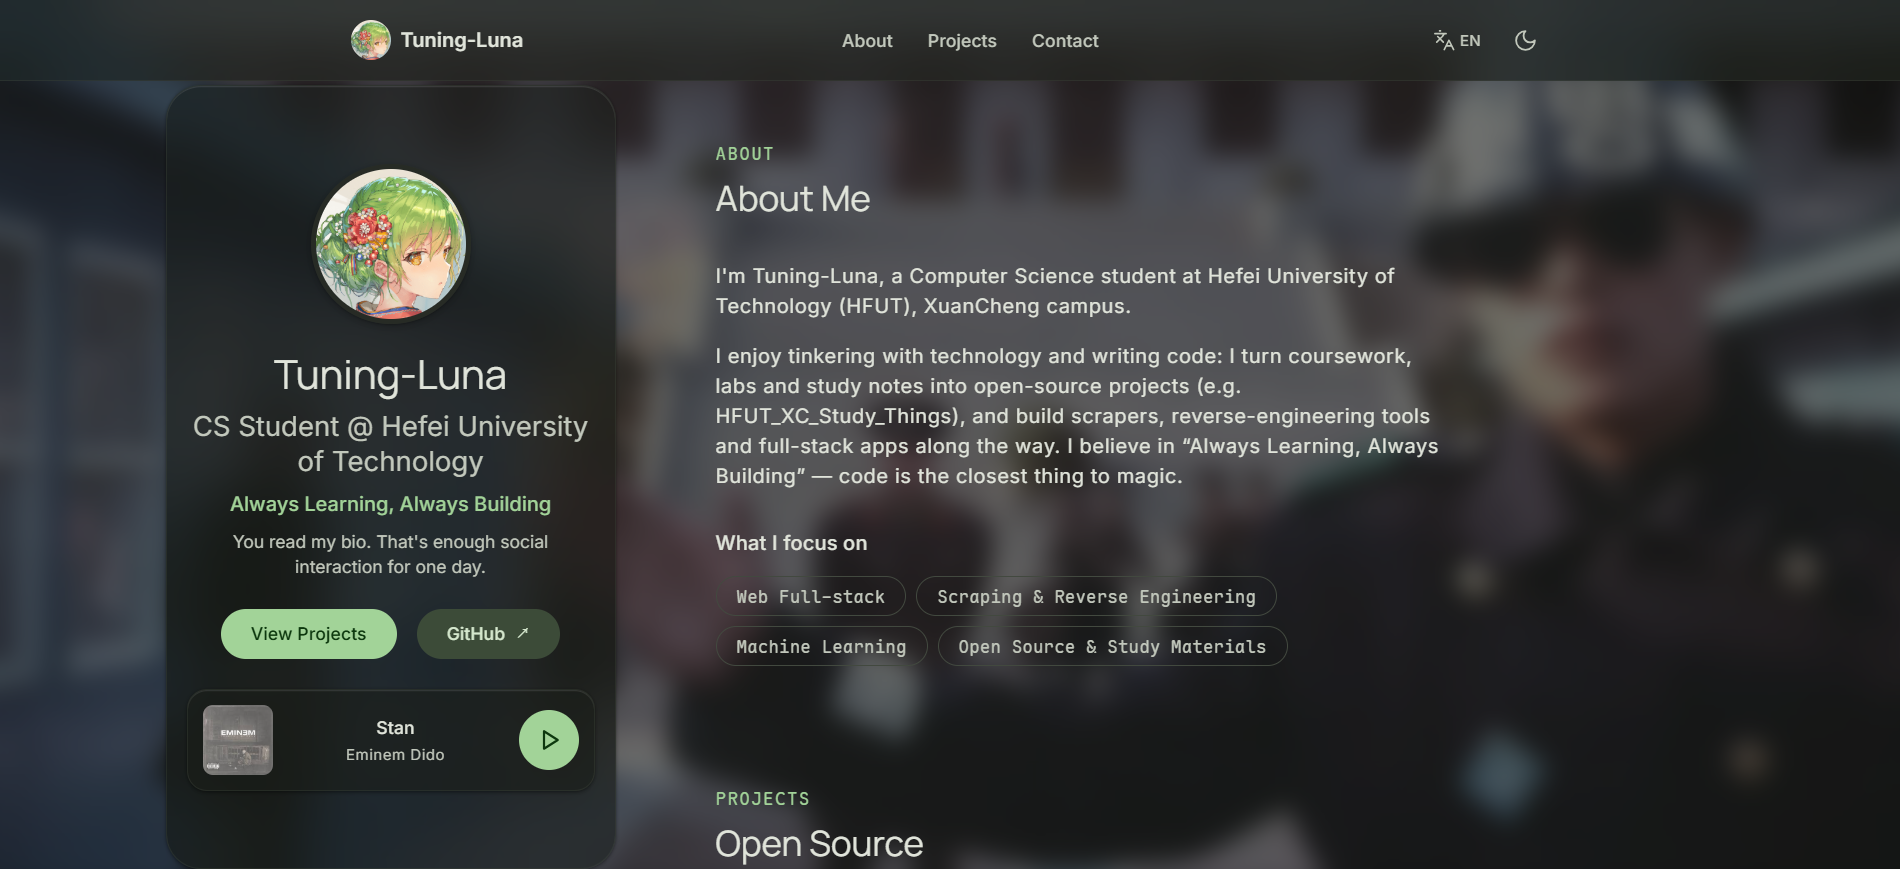
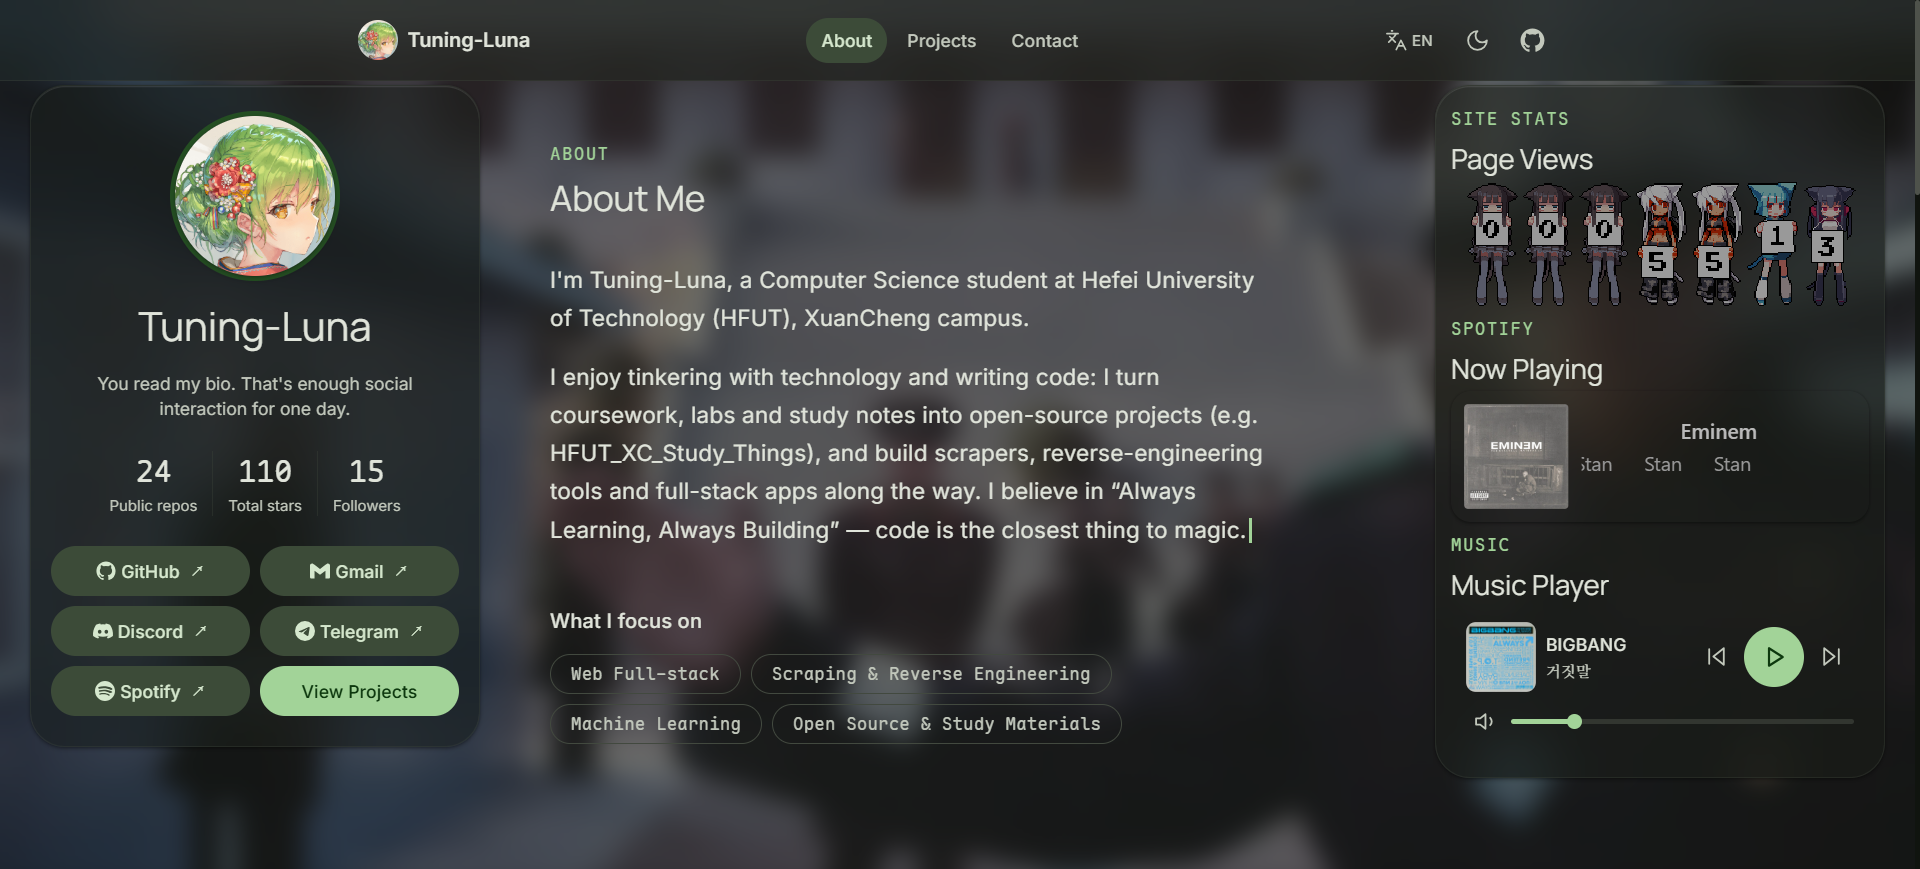
scroll to section with nav link high light

diff --git a/src/hooks/useActiveSection.ts b/src/hooks/useActiveSection.ts
@@ -1,0 +1,55 @@
+import { useEffect, useState } from 'react'
+
+/** Offset from the viewport top at which a section counts as "current" —
+  matches the global `scroll-padding-top` (4xl + 2xl) so a clicked nav link
+  lights up exactly when its anchor settles below the sticky app bar. */
+const ACTIVATION_OFFSET = 96
+
+/**
+ * Tracks which page section the reader is currently in, for nav highlighting.
+ *
+ * A section becomes active once its top edge crosses the activation offset;
+  the last section is pinned once the page is scrolled to the bottom so short
+  final sections still highlight. Recomputed on scroll/resize via rAF, and the
+  `ids` array must be stable (module-level) to avoid re-subscribing listeners.
+ */
+export function useActiveSection(ids: readonly string[]): string | null {
+  const [active, setActive] = useState<string | null>(null)
+
+  useEffect(() => {
+    if (ids.length === 0) return
+    let raf = 0
+
+    const measure = () => {
+      raf = 0
+      let current: string | null = null
+      // `ids` is in page order, so the last match wins.
+      for (const id of ids) {
+        const el = document.getElementById(id)
+        if (el && el.getBoundingClientRect().top <= ACTIVATION_OFFSET) current = id
+      }
+      if (
+        current !== ids[ids.length - 1] &&
+        window.innerHeight + window.scrollY >= document.documentElement.scrollHeight - 2
+      ) {
+        current = ids[ids.length - 1]
+      }
+      setActive((prev) => (prev === current ? prev : current))
+    }
+
+    const schedule = () => {
+      if (raf === 0) raf = requestAnimationFrame(measure)
+    }
+
+    measure()
+    window.addEventListener('scroll', schedule, { passive: true })
+    window.addEventListener('resize', schedule)
+    return () => {
+      window.removeEventListener('scroll', schedule)
+      window.removeEventListener('resize', schedule)
+      if (raf !== 0) cancelAnimationFrame(raf)
+    }
+  }, [ids])
+
+  return active
+}

diff --git a/src/components/AppBar.tsx b/src/components/AppBar.tsx
@@ -1,5 +1,6 @@
 import { useTranslation } from 'react-i18next'
 import { profile, siteRepoUrl } from '../data/profile'
+import { useActiveSection } from '../hooks/useActiveSection'
 import { Icon } from './Icon'
 import { LanguageToggle } from './LanguageToggle'
 import { SmartImage } from './SmartImage'
@@ -16,8 +17,12 @@ const NAV_ITEMS = [
   // { id: 'activity', key: 'nav.activity' },
 ] as const
 
+// Stable module-level array — useActiveSection re-subscribes when it changes.
+const NAV_IDS = NAV_ITEMS.map((item) => item.id)
+
 export function AppBar() {
   const { t } = useTranslation()
+  const activeSection = useActiveSection(NAV_IDS)
   return (
     <header className="appbar">
       <div className="container appbar__inner">
@@ -34,11 +39,19 @@ export function AppBar() {
           <span className="appbar__name">{profile.name}</span>
         </a>
         <nav className="appbar__nav" aria-label="Primary">
-          {NAV_ITEMS.map((item) => (
-            <a key={item.id} className="appbar__link" href={`#${item.id}`}>
-              {t(item.key)}
-            </a>
-          ))}
+          {NAV_ITEMS.map((item) => {
+            const active = item.id === activeSection
+            return (
+              <a
+                key={item.id}
+                className={active ? 'appbar__link appbar__link--active' : 'appbar__link'}
+                href={`#${item.id}`}
+                aria-current={active ? 'true' : undefined}
+              >
+                {t(item.key)}
+              </a>
+            )
+          })}
         </nav>
         <div className="appbar__actions">
           <LanguageToggle />

diff --git a/src/components/AppBar.css b/src/components/AppBar.css
@@ -76,6 +76,23 @@
   text-decoration: none;
 }
 
+/* Active state follows the M3 navigation pattern: a full-shape indicator in
+   the secondary container role with its on-color label. */
+.appbar__link--active {
+  background-color: var(--md-sys-color-secondary-container);
+  color: var(--md-sys-color-on-secondary-container);
+}
+
+/* Hovering the active link keeps the indicator and adds M3's 8% state layer. */
+.appbar__link--active:hover {
+  background-color: color-mix(
+    in srgb,
+    var(--md-sys-color-on-secondary-container) 8%,
+    var(--md-sys-color-secondary-container)
+  );
+  color: var(--md-sys-color-on-secondary-container);
+}
+
 .appbar__actions {
   display: flex;
   align-items: center;
